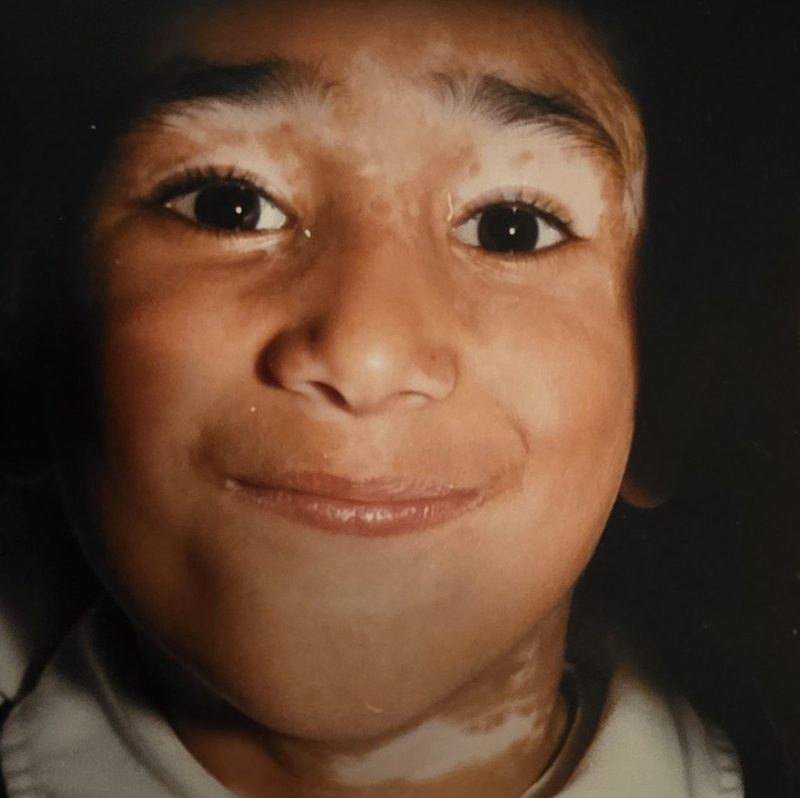
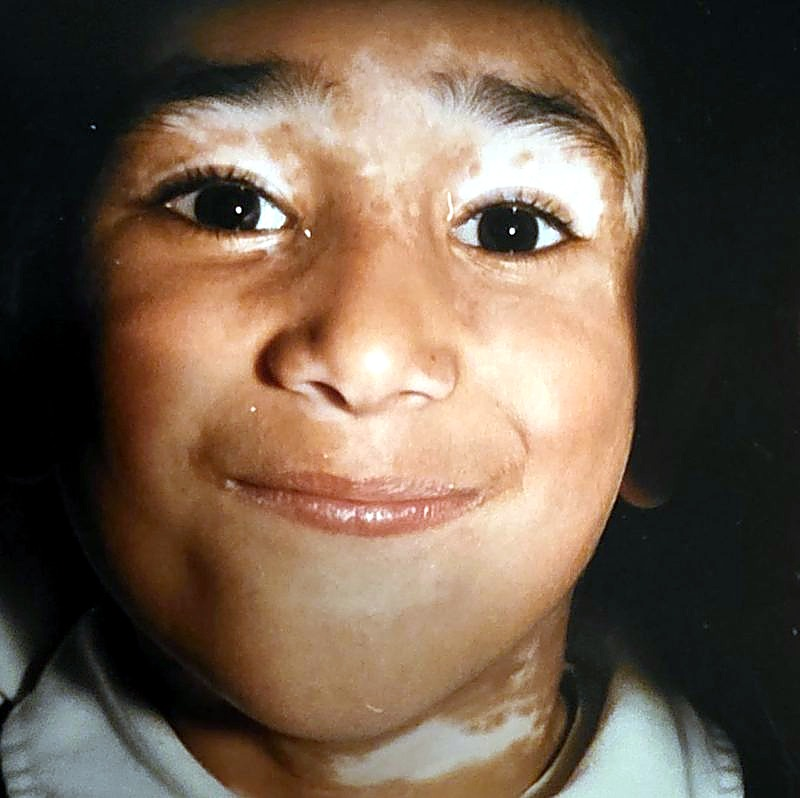
Crop fingers out of India 2001 photo and sharpen site photos
Claude-Session: https://claude.ai/code/session_01TVjry3bRUTdNBhRWjG1sH9

diff --git a/reflection-mountain.html b/reflection-mountain.html
@@ -87,7 +87,7 @@
 </header>
 
 <article>
-  <div class="photo"><img src="/india-2001-mitesh.jpg" alt="Mitesh, aged 23, smiling in a light kurta at a Sahaja Yoga gathering in Ganpatipule, India, 2001" width="900" height="1100"></div>
+  <div class="photo"><img src="/india-2001-mitesh.jpg" alt="Mitesh, aged 23, smiling in a light kurta at a Sahaja Yoga gathering in Ganpatipule, India, 2001" width="800" height="1258"></div>
   <p style="font-size:0.95rem;font-style:italic;color:var(--cobalt);margin-top:-1.25rem;">Ganpatipule, India, 2001.</p>
   <p>I was 23. Sitting on a mountain in India. And for the first time in months, my mind was still.</p>
   <p>I had never lived away from home. Not for university. Not for my first job. Not once.</p>
